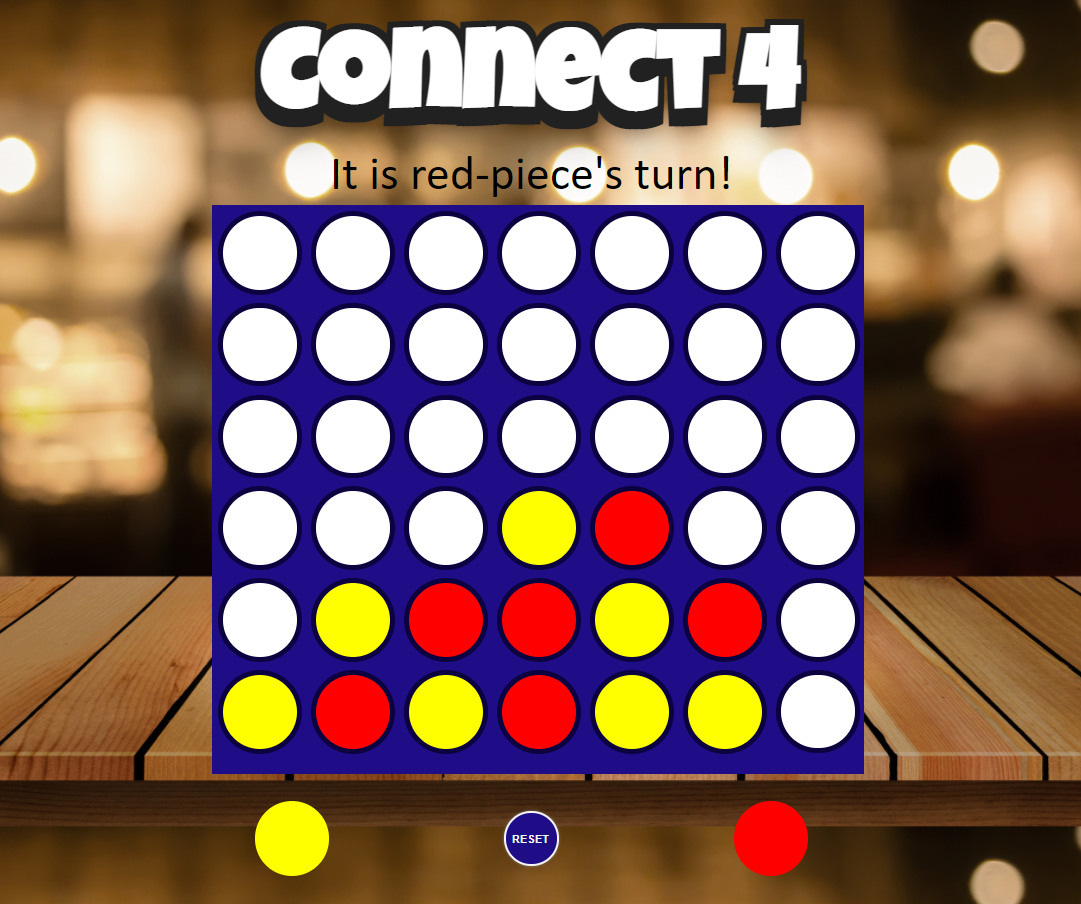
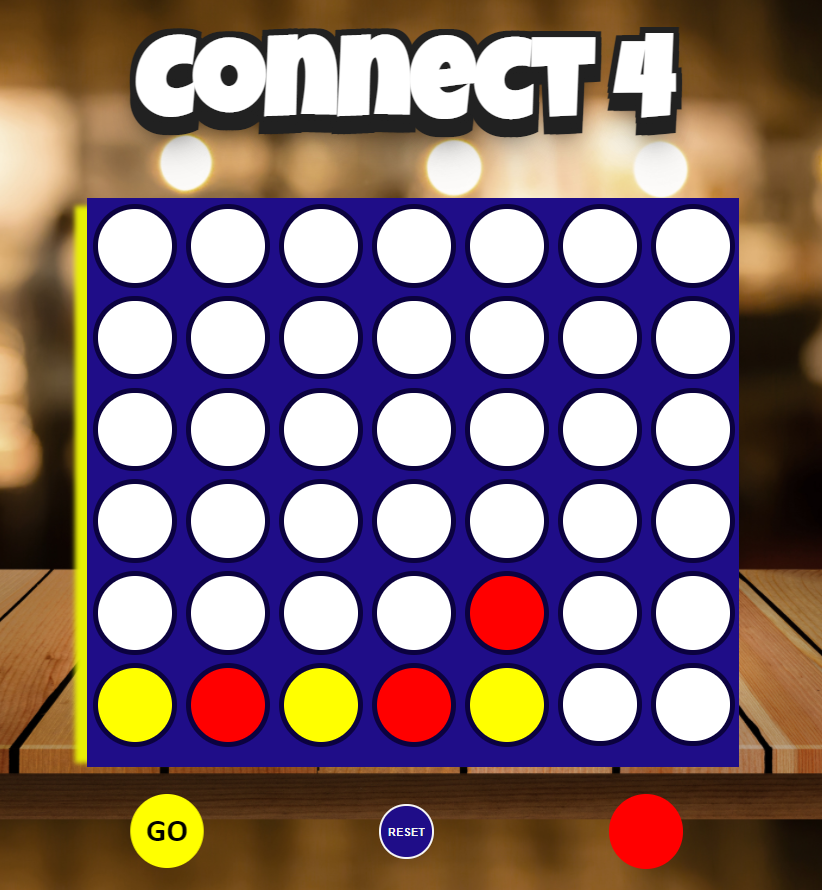
stlying and code tweaks

diff --git a/js/app.js b/js/app.js
@@ -1,3 +1,4 @@
+
 /*----- constants -----*/ 
 
 PLAYER_TURN = {
@@ -5,24 +6,6 @@ PLAYER_TURN = {
     '1' : 'yellow-piece',
     '-1' : 'red-piece'
 }
-
-// const boardCols = [
-//     [0,7,14,21,28,35],
-//     [1,8,15,22,29,36],
-//     [2,9,16,23,30,37],
-//     [3,10,17,24,31,38],
-//     [4,11,18,25,32,39],
-//     [5,12,19,26,33,40],
-//     [6,13,20,27,34,41]
-// ]
-
-// let x = 0
-// for (let index = 0; index < boardCols.length; index++) {
-//     const element = boardCols[index];
-//     console.log(element[1])
-    
-// }
-
 
 const dropSound = new Audio("../audio/piece-drop.mp3"); 
 const resetSound = new Audio("../audio/reset-drop.mp3"); 
@@ -43,6 +26,8 @@ const messageDiv = document.getElementById('message')
 const playerOne = document.getElementById('one')
 const playerTwo = document.getElementById('two')
 const gridBox = document.querySelector('section')
+const linkFav = document.querySelector("link[rel~='icon']")
+
 
 /*----- event listeners -----*/ 
 
@@ -96,6 +81,7 @@ function setPiece (e) {
     playerTwo.innerHTML = ""
     gridBox.classList.add('shadow-yellow')
     gridBox.classList.remove('shadow-red')
+    linkFav.href = "images/y-favicon-32x32.png"
 
     } else {
         playerTwo.classList.add('coin')
@@ -104,9 +90,8 @@ function setPiece (e) {
         playerOne.innerHTML = ""
         gridBox.classList.remove('shadow-yellow')
         gridBox.classList.add('shadow-red')
-
+        linkFav.href = "images/r-favicon-32x32.png"
     }
-
 }
 
 function checkValid(n) {
@@ -233,12 +218,22 @@ function init () {
     gridBoxes.forEach(cells => {
         if(cells.setAttribute('class', 'cell'));
     })
+    // reset player turn styling 
+    playerOne.classList.add('coin')
+    playerOne.innerHTML = "GO"
+    playerTwo.classList.remove('coin')
+    playerTwo.innerHTML = ""
+    gridBox.classList.add('shadow-yellow')
+    gridBox.classList.remove('shadow-red')
+    linkFav.href = "images/y-favicon-32x32.png"
+    // 
+    messageDiv.innerHTML = ""
     winner = 0;
     render();
     gameDivID();
+    
     
 }
 
 init();
 
-// https://www.youtube.com/watch?v=sg763OgGdqI

diff --git a/index.html b/index.html
@@ -5,10 +5,9 @@
     <meta http-equiv="X-UA-Compatible" content="IE=edge">
     <meta name="viewport" content="width=device-width, initial-scale=1.0">
     <title>Connect 4</title>
-    <!-- <link rel="shortcut icon" href="../images/favicon.png" /> -->
-    <link rel="apple-touch-icon" sizes="180x180" href="images/r-apple-touch-icon.png">
-    <link rel="icon" type="image/png" sizes="32x32" href="images/r-favicon-32x32.png">
-    <link rel="icon" type="image/png" sizes="16x16" href="images/r-favicon-16x16.png">
+    <link rel="apple-touch-icon" sizes="180x180" href="images/y-apple-touch-icon.png">
+    <link rel="icon" type="image/png" sizes="32x32" href="images/y-favicon-32x32.png">
+    <link rel="icon" type="image/png" sizes="16x16" href="images/y-favicon-16x16.png">
     <link rel="preconnect" href="https://fonts.gstatic.com">
     <link href="https://fonts.googleapis.com/css2?family=Luckiest+Guy&display=swap" rel="stylesheet">
     <script defer src="js/app.js"></script>
@@ -77,4 +76,6 @@
         </container>
     
 </body>
+
+
 </html>

diff --git a/css/style.css b/css/style.css
@@ -75,7 +75,6 @@ h1 {
     gap: 1.5%;
     width: calc(69vmin);
     height: calc(60vmin);
-    border-left: 
 }
 
 .shadow-yellow {

diff --git a/readme.md b/readme.md
@@ -28,6 +28,7 @@
 - Background Img https://www.wallpapertip.com/wpic/TxwRho_wood-table-blur-background/
 - Coin Rotation https://stackoverflow.com/questions/35607055/html5-rotate-animation-how-to-show-the-other-side-of-the-coin
 - H1 Styling https://codepen.io/fielding/pen/wYPRjj
+- Sound "You win" https://www.youtube.com/watch?v=sg763OgGdqI
 
 ## Pseudocode:
 ![Pseduo code 1/2](images/pseudo1.png)
@@ -36,7 +37,8 @@
 
 ## Minimum Viable Product:
 - As a user, I should be able to face off head to head with someone, alternating turns
-- As a user, I should be able to place my game piece where I want it to go
+- As a user, I should be able to place my game piece in a valid spot
+- As a user, I should know when it is my turn 
 - As a user, I should be able to know when I win or lose the game
 - As a user, I should be able to reset the board to start a new game
 - As a user, I should be able to see the instructions pop up when "how to play" is clicked
